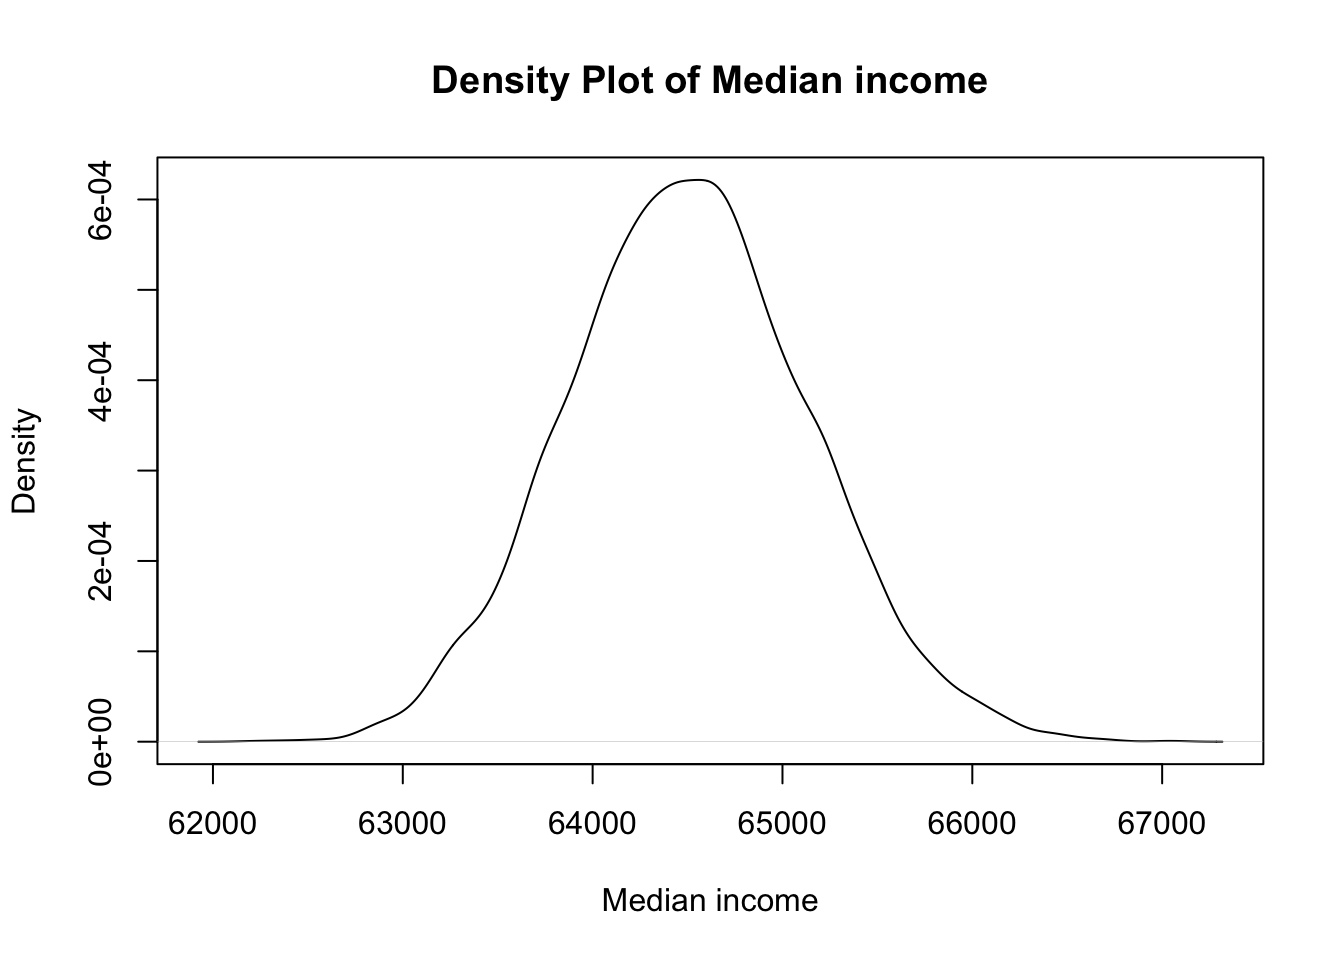
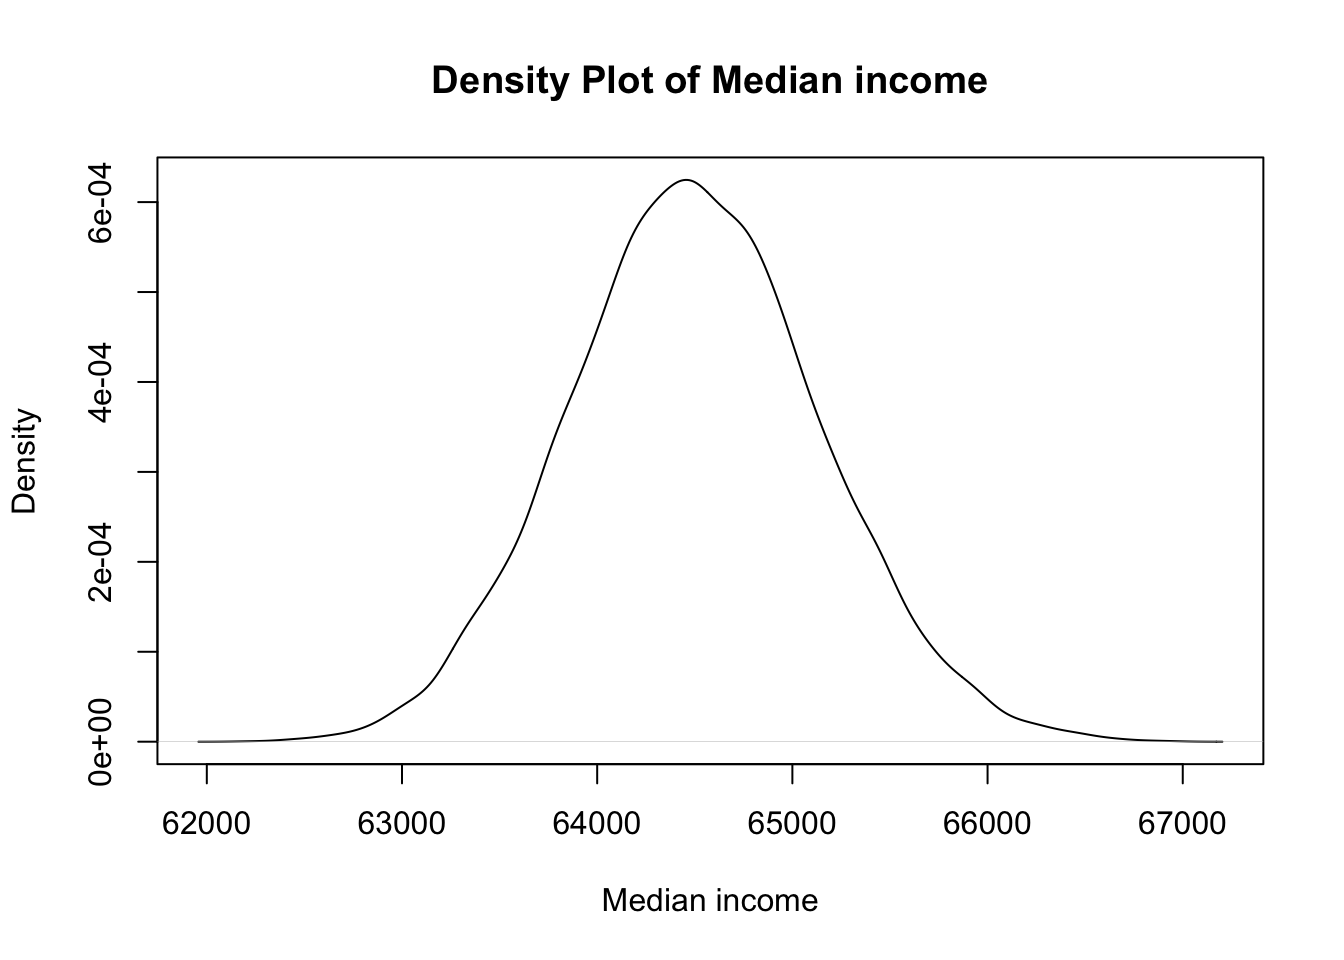
o9

diff --git a/docs/Catallactics/Personal/pricing.html b/docs/Catallactics/Personal/pricing.html
@@ -889,7 +889,7 @@ attr(,"class")
 </section>
 <section id="option-pricing-calculation" class="level2">
 <h2 class="anchored" data-anchor-id="option-pricing-calculation">Option pricing calculation</h2>
-<p>Aim for a strike <strong>~10 delta.</strong></p>
+<p>Aim for a strike <strong>less than 10 delta.</strong></p>
 <div class="cell">
 <details class="code-fold">
 <summary>Code</summary>
@@ -927,8 +927,17 @@ attr(,"class")
 <div class="cell-output cell-output-stdout">
 <pre><code>[1] 19151.09</code></pre>
 </div>
+<details class="code-fold">
+<summary>Code</summary>
+<div class="sourceCode cell-code" id="cb14"><pre class="sourceCode r code-with-copy"><code class="sourceCode r"><span id="cb14-1"><a href="#cb14-1" aria-hidden="true" tabindex="-1"></a>price</span></code><button title="Copy to Clipboard" class="code-copy-button"><i class="bi"></i></button></pre></div>
+</details>
+<div class="cell-output cell-output-stdout">
+<pre><code>Concise summary of valuation for EuropeanOption 
+    value     delta     gamma      vega     theta       rho    divRho 
+  53.9913   -0.0479    0.0000 1284.4907 -314.9786 -371.0821  353.3849 </code></pre>
 </div>
-<p>Price of a <strong>4 month 12 delta option</strong> is 54 for the given strike price</p>
+</div>
+<p>Price of a <strong>4 month 5 delta option</strong> is 54 for the given strike price</p>
 </section>
 <section id="take-home-message" class="level2">
 <h2 class="anchored" data-anchor-id="take-home-message">Take home message</h2>
@@ -948,14 +957,14 @@ Summary
 <div class="cell">
 <details class="code-fold">
 <summary>Code</summary>
-<div class="sourceCode cell-code" id="cb14"><pre class="sourceCode r code-with-copy"><code class="sourceCode r"><span id="cb14-1"><a href="#cb14-1" aria-hidden="true" tabindex="-1"></a>closing<span class="ot">&lt;-</span><span class="dv">22530</span></span>
-<span id="cb14-2"><a href="#cb14-2" aria-hidden="true" tabindex="-1"></a>strikerate <span class="ot">&lt;-</span> <span class="dv">18000</span>  <span class="co"># Strike price of the option</span></span>
-<span id="cb14-3"><a href="#cb14-3" aria-hidden="true" tabindex="-1"></a>time<span class="ot">&lt;-</span> <span class="dv">210</span><span class="sc">/</span><span class="dv">365</span>  <span class="co"># Time to expiration in years</span></span>
-<span id="cb14-4"><a href="#cb14-4" aria-hidden="true" tabindex="-1"></a>risk_free_rate <span class="ot">&lt;-</span> <span class="fl">0.071</span>   <span class="co"># Risk-free interest rate</span></span>
-<span id="cb14-5"><a href="#cb14-5" aria-hidden="true" tabindex="-1"></a>vol<span class="ot">&lt;-</span>vol <span class="co"># implied volatility</span></span>
-<span id="cb14-6"><a href="#cb14-6" aria-hidden="true" tabindex="-1"></a></span>
-<span id="cb14-7"><a href="#cb14-7" aria-hidden="true" tabindex="-1"></a>price<span class="ot">&lt;-</span><span class="fu">EuropeanOption</span>(<span class="at">type =</span> <span class="st">"put"</span>,<span class="at">underlying =</span> closing,<span class="at">strike =</span> strikerate,<span class="at">dividendYield =</span> <span class="dv">0</span>,<span class="at">riskFreeRate =</span> risk_free_rate,<span class="at">maturity =</span> time,<span class="at">volatility =</span> vol)</span>
-<span id="cb14-8"><a href="#cb14-8" aria-hidden="true" tabindex="-1"></a>price</span></code><button title="Copy to Clipboard" class="code-copy-button"><i class="bi"></i></button></pre></div>
+<div class="sourceCode cell-code" id="cb16"><pre class="sourceCode r code-with-copy"><code class="sourceCode r"><span id="cb16-1"><a href="#cb16-1" aria-hidden="true" tabindex="-1"></a>closing<span class="ot">&lt;-</span><span class="dv">22530</span></span>
+<span id="cb16-2"><a href="#cb16-2" aria-hidden="true" tabindex="-1"></a>strikerate <span class="ot">&lt;-</span> <span class="dv">18000</span>  <span class="co"># Strike price of the option</span></span>
+<span id="cb16-3"><a href="#cb16-3" aria-hidden="true" tabindex="-1"></a>time<span class="ot">&lt;-</span> <span class="dv">210</span><span class="sc">/</span><span class="dv">365</span>  <span class="co"># Time to expiration in years</span></span>
+<span id="cb16-4"><a href="#cb16-4" aria-hidden="true" tabindex="-1"></a>risk_free_rate <span class="ot">&lt;-</span> <span class="fl">0.071</span>   <span class="co"># Risk-free interest rate</span></span>
+<span id="cb16-5"><a href="#cb16-5" aria-hidden="true" tabindex="-1"></a>vol<span class="ot">&lt;-</span>vol <span class="co"># implied volatility</span></span>
+<span id="cb16-6"><a href="#cb16-6" aria-hidden="true" tabindex="-1"></a></span>
+<span id="cb16-7"><a href="#cb16-7" aria-hidden="true" tabindex="-1"></a>price<span class="ot">&lt;-</span><span class="fu">EuropeanOption</span>(<span class="at">type =</span> <span class="st">"put"</span>,<span class="at">underlying =</span> closing,<span class="at">strike =</span> strikerate,<span class="at">dividendYield =</span> <span class="dv">0</span>,<span class="at">riskFreeRate =</span> risk_free_rate,<span class="at">maturity =</span> time,<span class="at">volatility =</span> vol)</span>
+<span id="cb16-8"><a href="#cb16-8" aria-hidden="true" tabindex="-1"></a>price</span></code><button title="Copy to Clipboard" class="code-copy-button"><i class="bi"></i></button></pre></div>
 </details>
 <div class="cell-output cell-output-stdout">
 <pre><code>Concise summary of valuation for EuropeanOption 

diff --git a/docs/posts/montecarlo.html b/docs/posts/montecarlo.html
@@ -1011,7 +1011,7 @@ Income distribution is not normal
 </details>
 <div class="cell-output cell-output-stdout">
 <pre><code>     Min.   1st Qu.    Median      Mean   3rd Qu.      Max. 
-   208654    296828    343512    547787    442229 101892027 </code></pre>
+   214100    296189    345424    587175    435498 228597172 </code></pre>
 </div>
 <details open="" class="code-fold">
 <summary>Code</summary>
@@ -1019,7 +1019,7 @@ Income distribution is not normal
 </details>
 <div class="cell-output cell-output-stdout">
 <pre><code>   Min. 1st Qu.  Median    Mean 3rd Qu.    Max. 
-  62196   64074   64497   64507   64928   67045 </code></pre>
+  62231   64070   64492   64503   64926   66929 </code></pre>
 </div>
 <details open="" class="code-fold">
 <summary>Code</summary>
@@ -1027,7 +1027,7 @@ Income distribution is not normal
 </details>
 <div class="cell-output cell-output-stdout">
 <pre><code>     Min.   1st Qu.    Median      Mean   3rd Qu.      Max. 
-9.915e+05 3.369e+06 5.675e+06 2.529e+07 1.215e+07 1.016e+10 </code></pre>
+9.999e+05 3.308e+06 5.692e+06 2.929e+07 1.183e+07 2.283e+10 </code></pre>
 </div>
 </div>
 </section>

diff --git a/docs/Revision notes/Diagrams/diagrams.html b/docs/Revision notes/Diagrams/diagrams.html
@@ -1291,7 +1291,7 @@ window.document.addEventListener("DOMContentLoaded", function (event) {
 </div>
   </div>
 </footer>
-<script>var lightboxQuarto = GLightbox({"loop":false,"openEffect":"zoom","closeEffect":"zoom","selector":".lightbox","descPosition":"bottom"});
+<script>var lightboxQuarto = GLightbox({"descPosition":"bottom","openEffect":"zoom","selector":".lightbox","loop":false,"closeEffect":"zoom"});
 window.onload = () => {
   lightboxQuarto.on('slide_before_load', (data) => {
     const { slideIndex, slideNode, slideConfig, player, trigger } = data;
